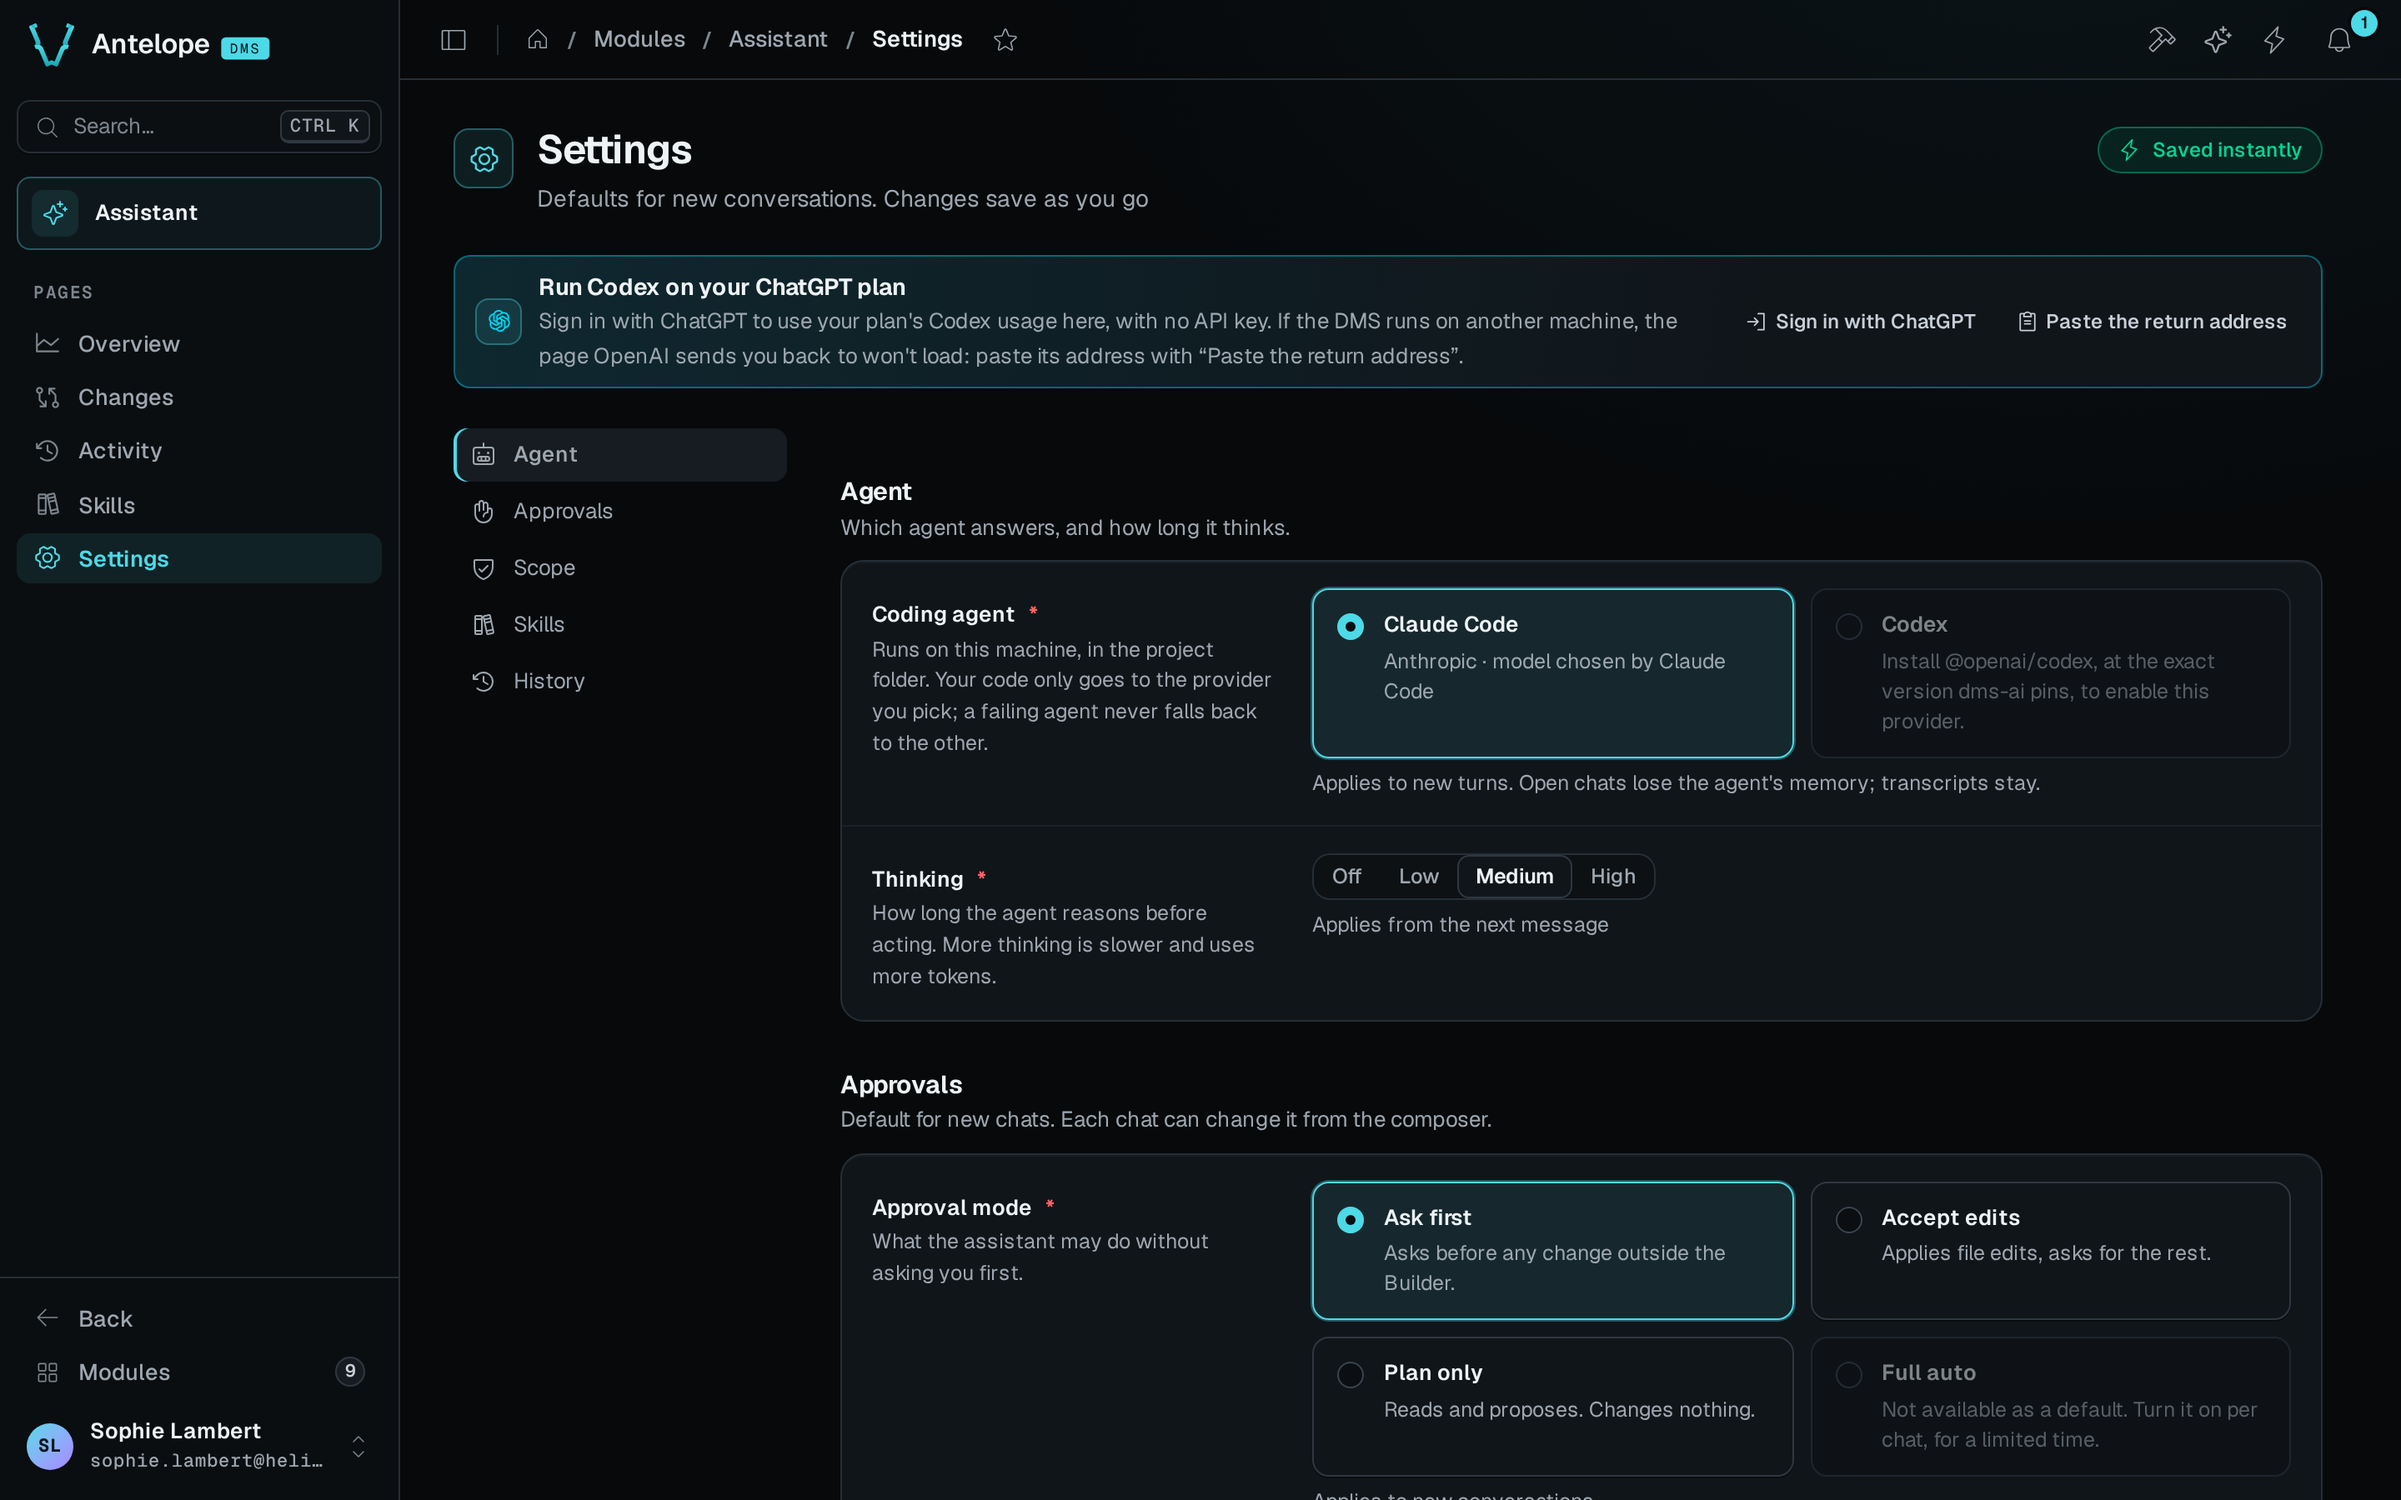
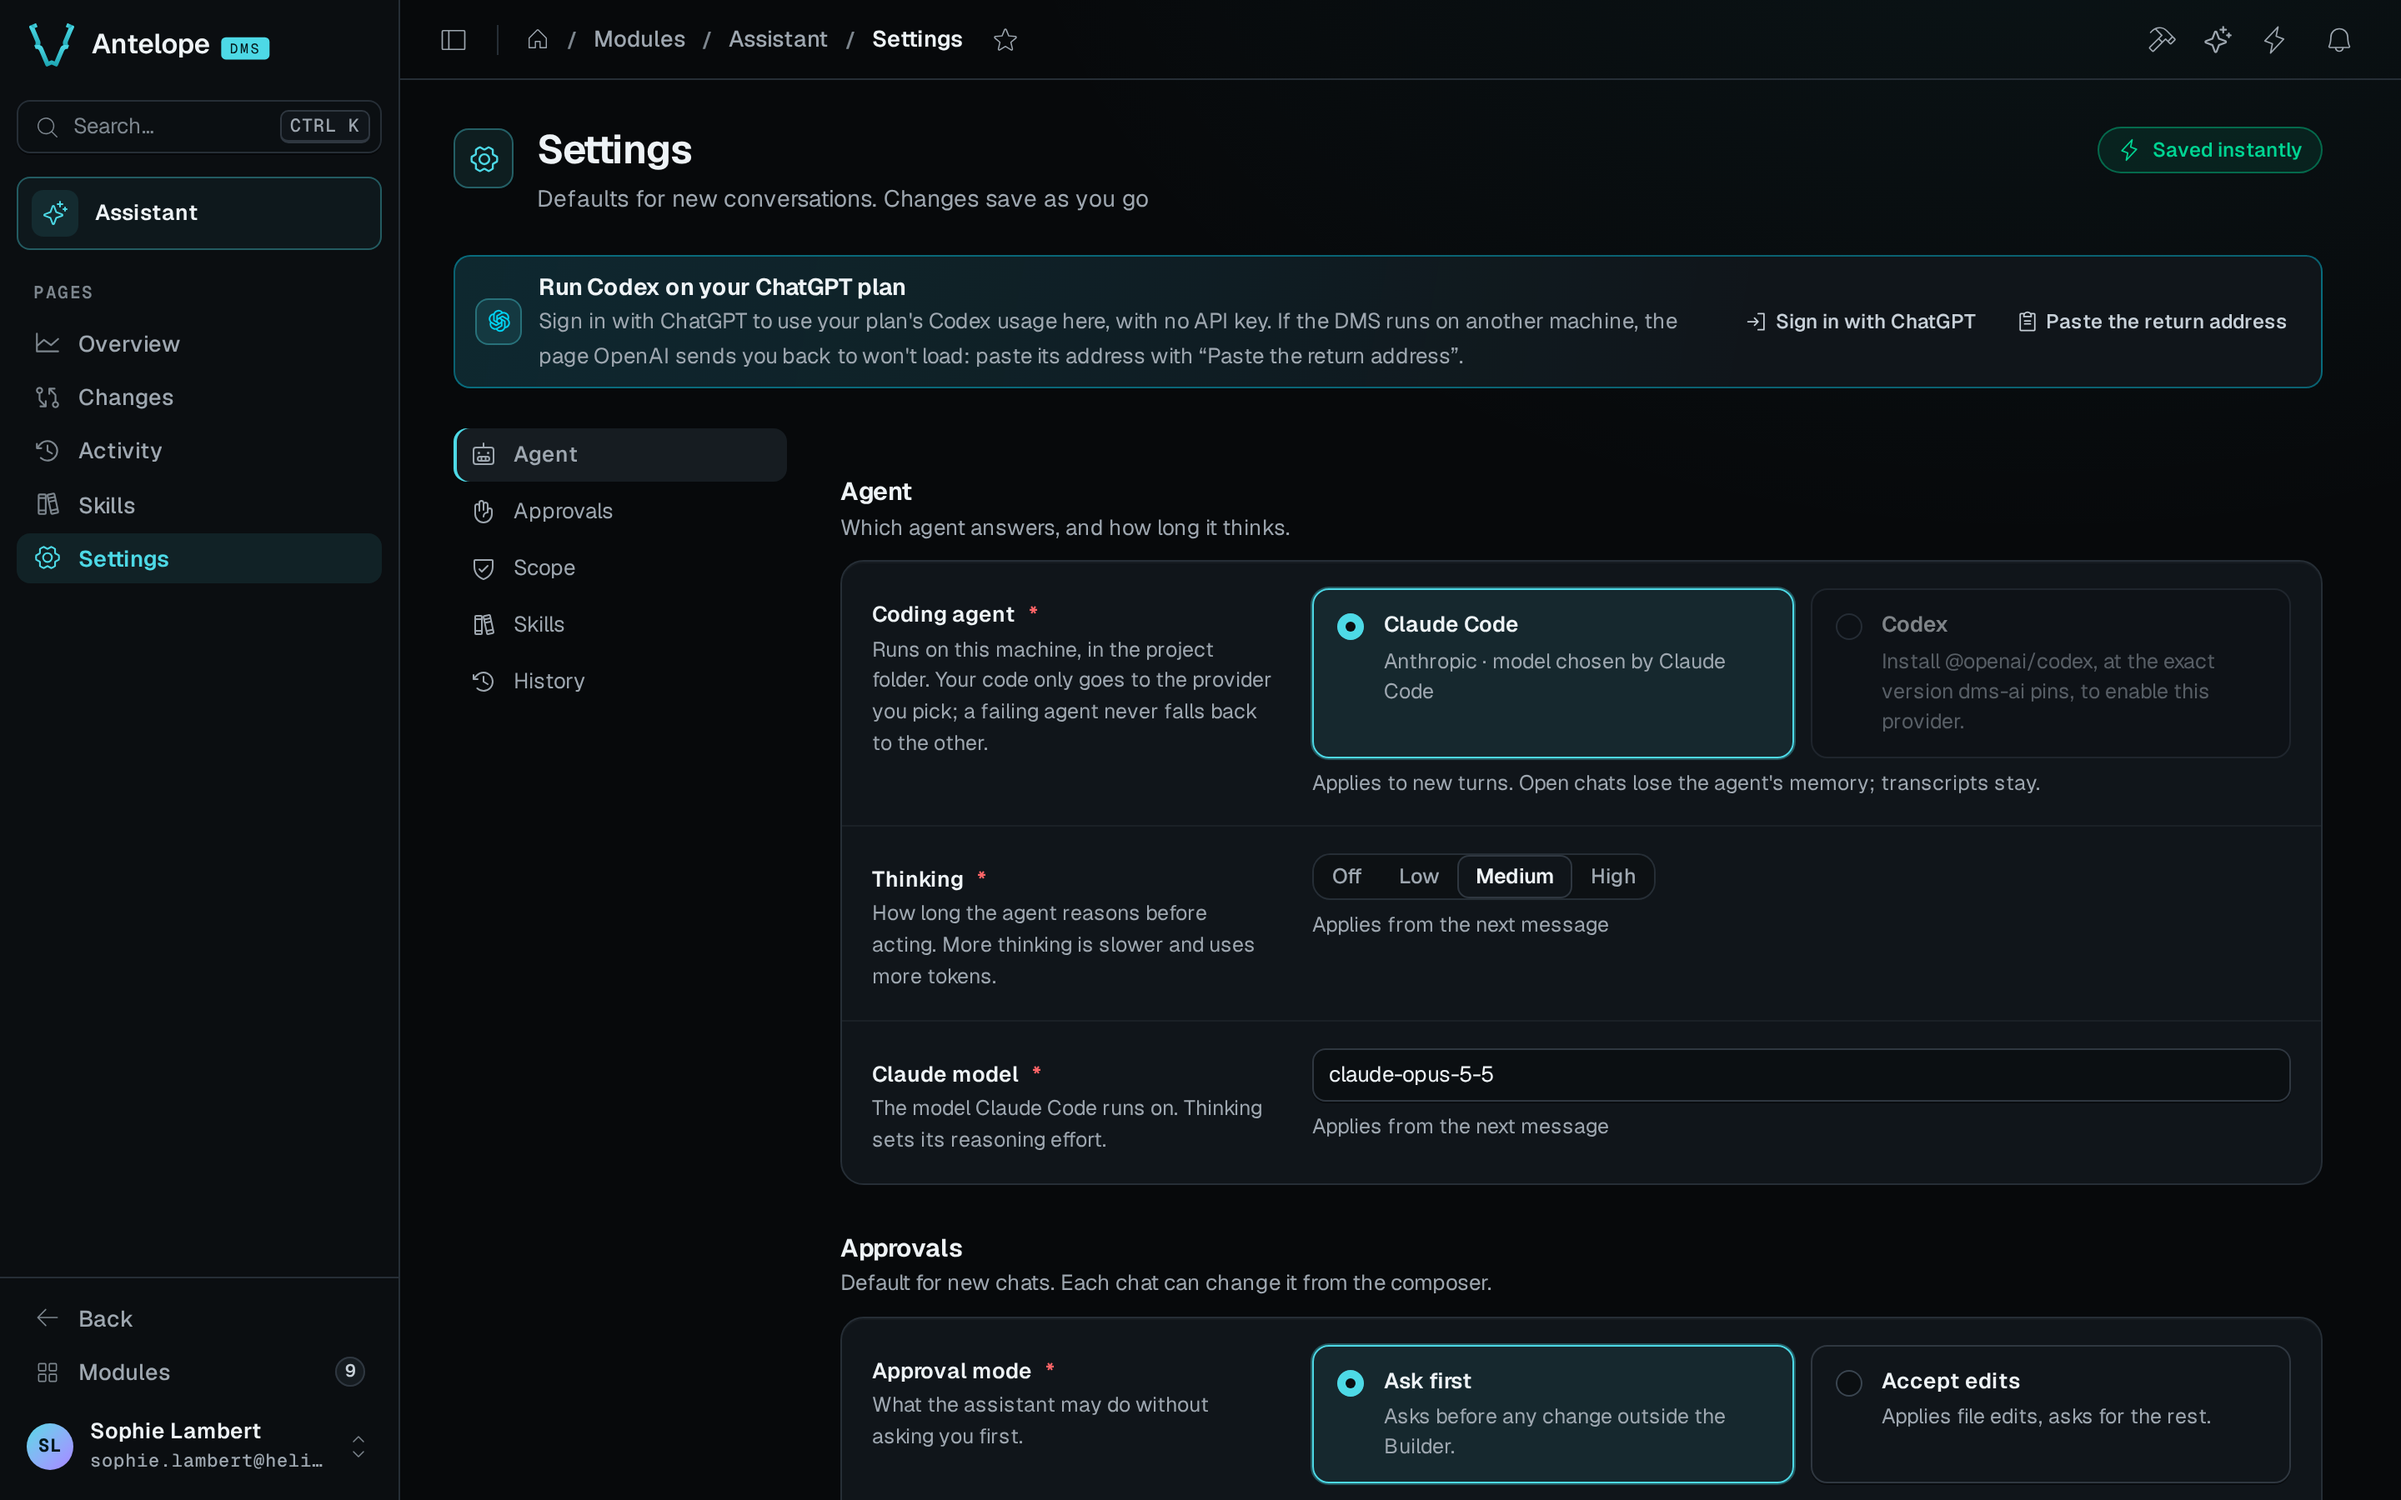
fix(docs): open the capture onboarding with the setup token and refresh two captures

diff --git a/docs/captures.ts b/docs/captures.ts
@@ -5,7 +5,7 @@
 export default [
   {
     id: "onboarding",
-    route: "/onboarding",
+    route: "/onboarding?token=helio-capture-setup-token",
     setup: true,
     steps: [
       { action: "fill", selector: 'input[name="name"]', value: "Helio" },

diff --git a/docs/4.usage/5.skills.md b/docs/4.usage/5.skills.md
@@ -6,7 +6,7 @@ mode: reference
 
 Skills are instructions the agent loads for specific jobs. The Skills page (`/modules/ai/skills`) shows them as cards.
 
-![The Skills page of the Helio demo, with 36 module skills and no local skills](../images/captures/ai-skills.webp)
+![The Skills page of the Helio demo, with 37 module skills and no local skills](../images/captures/ai-skills.webp)
 
 *These cards come from the installed modules and their dependencies, so the count depends on your project. Inspecting them needs no model request.*
 
@@ -29,7 +29,7 @@ A card shows the skill's name, the module it comes from, its description, its ta
 
 ## Skill detail
 
-A click on a card opens the skill in a reading panel on the right, 768 px wide on a large screen. The panel's header names the skill and its place in the list, such as **Skill 3 of 36**. Its arrows, or `K` and `J`, step to the previous and next skill.
+A click on a card opens the skill in a reading panel on the right, 768 px wide on a large screen. The panel's header names the skill and its place in the list, such as **Skill 3 of 37**. Its arrows, or `K` and `J`, step to the previous and next skill.
 
 The panel shows these rows: **Source**, **Full name**, **Origin**, **Used** (the count over 30 days) and **Last used**. Then come the description, the tags and the skill's `SKILL.md`, with a copy button. The `SKILL.md` text reflows to the panel's width. When a conversation used the skill, **Open last conversation** opens it.
 
